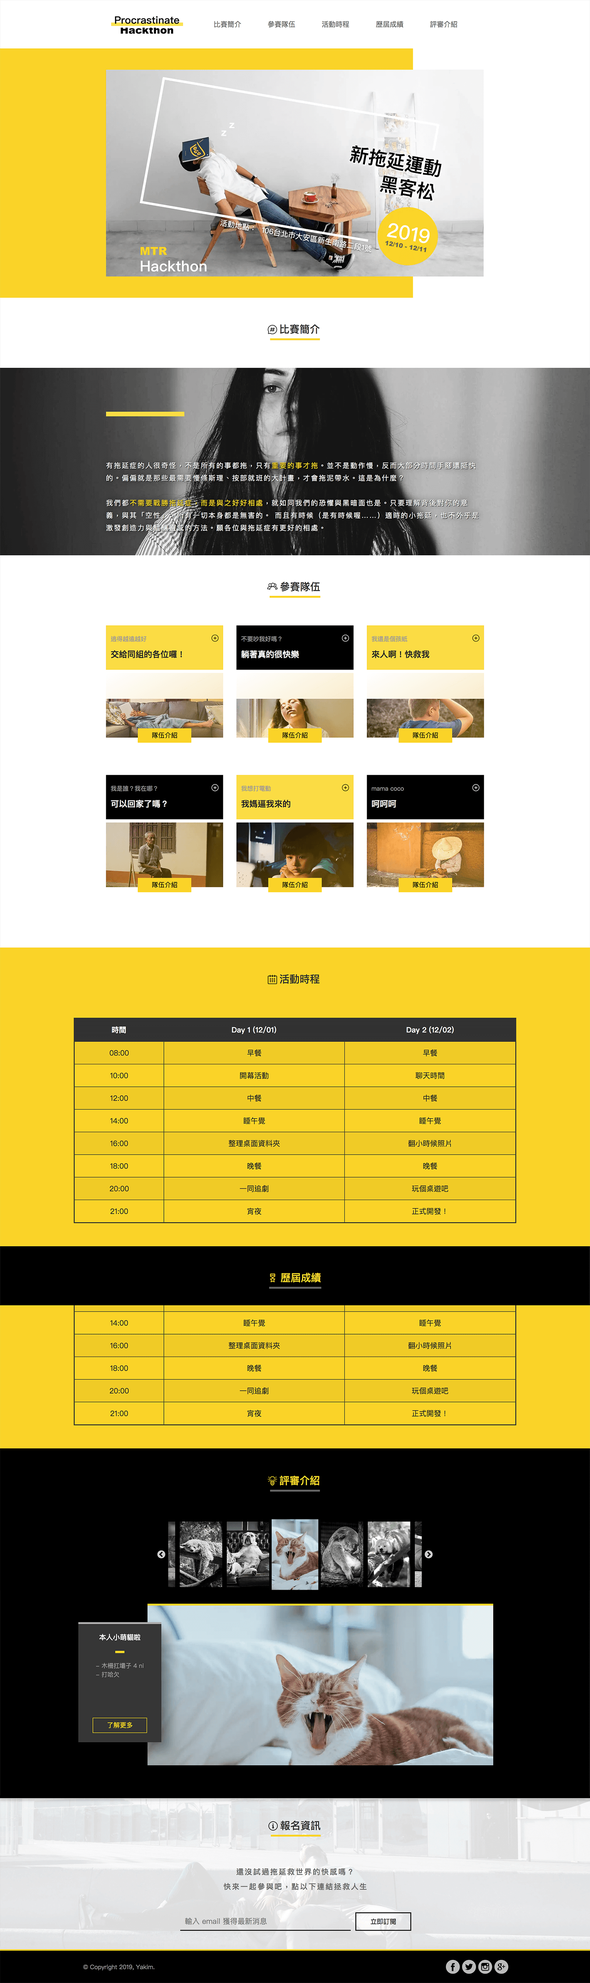
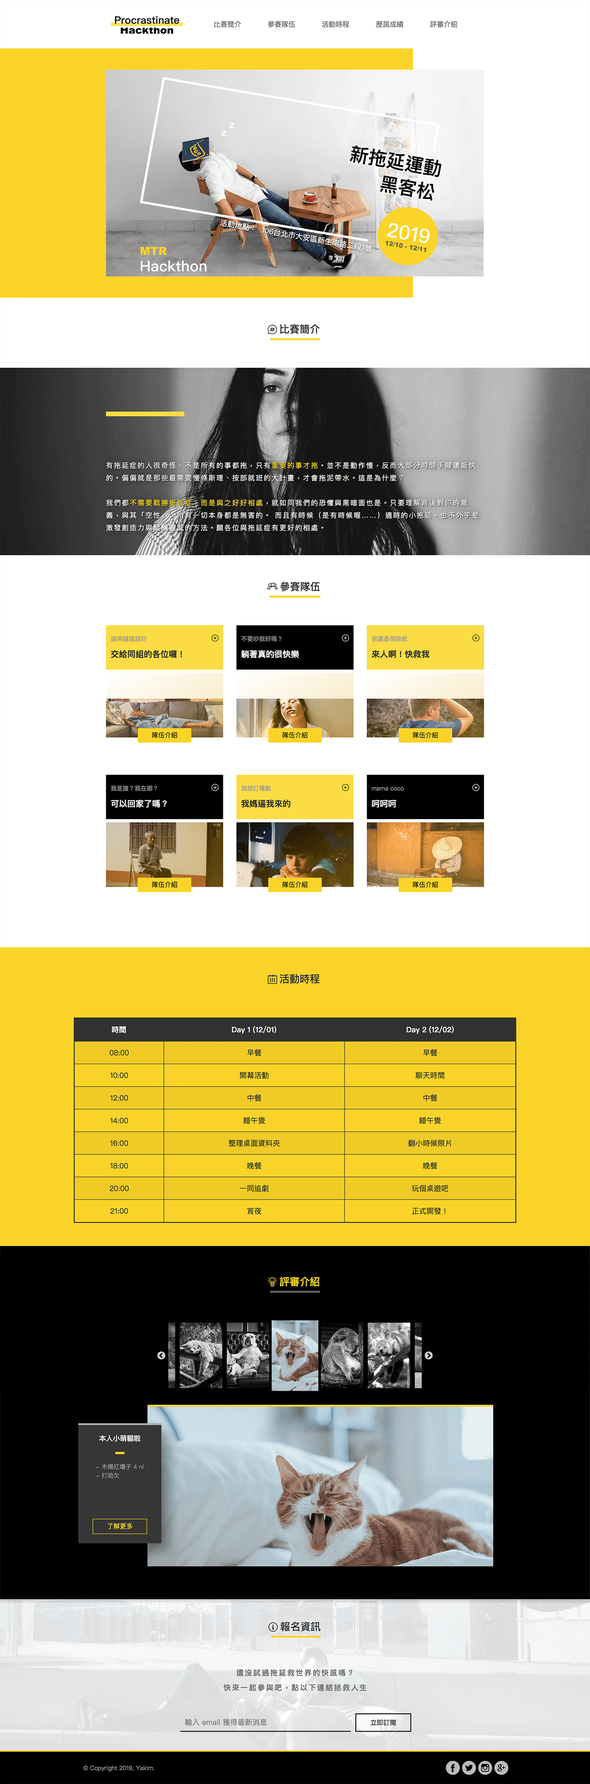
Update theme color & RWD

diff --git a/docs/static/js/main.f5ff1179.chunk.js b/docs/static/js/main.f5ff1179.chunk.js
@@ -1,0 +1,2 @@
+(window.webpackJsonpprofolio=window.webpackJsonpprofolio||[]).push([[0],{109:function(e,t,a){e.exports=a(173)},169:function(e,t,a){},173:function(e,t,a){"use strict";a.r(t);var l=a(0),n=a.n(l),r=a(2),c=a.n(r),o=a(107),m=a(22);Boolean("localhost"===window.location.hostname||"[::1]"===window.location.hostname||window.location.hostname.match(/^127(?:\.(?:25[0-5]|2[0-4][0-9]|[01]?[0-9][0-9]?)){3}$/));var i=a(45),s=a(46),u=a(50),E=a(47),h=a(51),p=function(){return n.a.createElement("div",{className:"contact-info"},n.a.createElement("p",null,n.a.createElement("i",{className:"fas fa-paper-plane fa-lg"}),n.a.createElement("a",{href:"mailto:toromilk80129@gmail.com",target:"_blank",rel:"noopener noreferrer"},"toromilk80129@gmail.com")),n.a.createElement("p",null,n.a.createElement("i",{className:"fas fa-phone-alt fa-lg"}),n.a.createElement("a",{href:"tel:+996-905-431-505"},"+886 905 431 505")),n.a.createElement("p",null,n.a.createElement("i",{className:"fas fa-desktop fa-lg"}),n.a.createElement("a",{href:"https://yakimhsu.com/writing.html",rel:"noopener noreferrer",target:"_blank"},"yakimhsu.com")),n.a.createElement("p",null,n.a.createElement("i",{className:"far fa-file-alt fa-lg"}),n.a.createElement("a",{href:""},"resume (pdf)")))},d=function(){return n.a.createElement("section",{className:"section no-border"},n.a.createElement("h1",{className:"name-title"},"YAKIM HSU"),n.a.createElement("section",{className:"introduce"},n.a.createElement("p",null,n.a.createElement("strong",null,"\u55e8\uff01 \u6211\u662f Yakim\uff0c\u4e00\u500b\u9084\u5728\u81ea\u6211\u7cbe\u9032\u7684 Front-End Developer \ud83c\udf85")),n.a.createElement("p",null,"Taipei ",n.a.createElement("br",null),"2019 \u5e74\u53c3\u52a0\u7a0b\u5f0f\u5c0e\u5e2b\u8a08\u756b\u7684\u9019\u534a\u5e74\uff0c\u5beb\u4e86",n.a.createElement("a",{href:"https://yakimhsu.com",rel:"noopener noreferrer",target:"_blank"}," 50 \u9918\u7bc7\u6280\u8853\u7b46\u8a18"),"\u3002\u55ae\u770b\u6578\u5b57\u610f\u7fa9\u4e0d\u5927\uff0c\u4f46\u80cc\u5f8c\u7684\u7406\u5ff5\u662f\u6211\u4e0d\u8ac7\u52aa\u529b\u3001\u8ac7\u884c\u52d5\u3002")),n.a.createElement(p,null))},f=a(93),g=a(176),b=function(e){var t=e.visible,a=e.showModal,l=e.hideModal;return n.a.createElement("div",{className:"section__content"},n.a.createElement("h3",{className:"title"},"SPA - BLOG",n.a.createElement("a",{href:"https://yakim-shu.github.io/SPA-Blog/",rel:"noopener noreferrer",target:"_blank"},"Demo"),n.a.createElement("a",{href:"https://github.com/yakim-shu/SPA-Blog",rel:"noopener noreferrer",target:"_blank"},"Github Repo")),n.a.createElement("div",{className:"project__content",type:"primary",onClick:function(){return a("visible1")}},n.a.createElement("p",{className:"summary"},"\u7528 React \u6253\u9020\u7684 SPA Blog\uff0c\u88e1\u9762\u7684\u6587\u7ae0\u90fd\u662f\u81ea\u5df1\u5b78\u7fd2 React \u7684\u7b46\u8a18\u3002"),n.a.createElement("ul",{className:"info"},n.a.createElement("h5",null,"\u529f\u80fd"),n.a.createElement("li",null,"\u6587\u7ae0\u5206\u985e\u3001\u6a19\u984c\u641c\u5c0b"),n.a.createElement("li",null,"\u652f\u6301 ",n.a.createElement("code",null,"markdown")," \u683c\u5f0f\u767c\u5e03\u6587\u7ae0\uff0c\u4e26\u652f\u63f4 code highlight"),n.a.createElement("li",null,"\u64cd\u4f5c\u6587\u7ae0\u6703\u6709\u56de\u994b\u8a0a\u606f\uff0c\u589e\u52a0\u4f7f\u7528\u8005\u9ad4\u9a57")),n.a.createElement("ul",{className:"info"},n.a.createElement("h5",null,"\u6280\u8853"),n.a.createElement("li",null,n.a.createElement("code",null,"react-router")," \u8655\u7406\u524d\u7aef\u8def\u7531"),n.a.createElement("li",null,"\u642d\u914d ",n.a.createElement("code",null,"Redux")," \u7ba1\u7406\u72c0\u614b\uff0c\u89e3\u6c7a props drilling \u7684\u554f\u984c"),n.a.createElement("li",null,"\u4f7f\u7528 ",n.a.createElement("code",null,"redux-promise")," \u8655\u7406\u975e\u540c\u6b65\u64cd\u4f5c"),n.a.createElement("li",null,"\u6587\u7ae0 API \u4ee5 ",n.a.createElement("code",null,"JSON Server")," \u90e8\u7f72\u5230 Digital Ocean\u3001\u4e26\u4f7f\u7528 ",n.a.createElement("code",null,"Nginx")," \u4f5c\u4ee3\u7406"))),n.a.createElement(g.a,{width:"860px",footer:null,title:"SPA - BLOG",visible:t,onCancel:l},n.a.createElement("ul",null,n.a.createElement("li",null,n.a.createElement("h4",null,"\u9996\u9801"),n.a.createElement("img",{src:"./image/pic_blog_home.png",alt:""})),n.a.createElement("li",null,n.a.createElement("h4",null,"\u6587\u7ae0\u5167\u9801"),n.a.createElement("img",{src:"./image/pic_blog_article.png",alt:""})),n.a.createElement("li",null,n.a.createElement("h4",null,"\u6587\u7ae0\u5217\u8868"),n.a.createElement("img",{src:"./image/pic_blog_list.png",alt:""})),n.a.createElement("li",null,n.a.createElement("h4",null,"\u65b0\u589e\u6587\u7ae0"),n.a.createElement("img",{src:"./image/pic_blog_addPost.png",alt:""})))))},k=function(e){var t=e.visible,a=e.showModal,l=e.hideModal;return n.a.createElement("div",{className:"section__content"},n.a.createElement("h3",{className:"title"},"\u540d\u8a00\u5927\u4e82\u9b25 - PHP \u7559\u8a00\u677f",n.a.createElement("a",{href:"http://mentor-program.co/group3/yakim/week13/index.php",rel:"noopener noreferrer",target:"_blank"},"Demo"),n.a.createElement("a",{href:"https://github.com/Lidemy/mentor-program-3rd-yakim-shu/tree/master/homeworks/week13/hw3",rel:"noopener noreferrer",target:"_blank"},"Github Repo")),n.a.createElement("div",{className:"project__content",type:"primary",onClick:function(){return a("visible2")}},n.a.createElement("p",{className:"summary"},"\u7b2c\u4e00\u500b PHP \u7df4\u7fd2\u4f5c\u54c1\uff0c\u85c9\u7531\u6b64\u4f5c\u696d\u66f4\u4e86\u89e3\u524d\u3001\u5f8c\u7aef\u904b\u4f5c\u3002"),n.a.createElement("ul",{className:"info"},n.a.createElement("h5",null,"\u529f\u80fd"),n.a.createElement("li",null,"\u652f\u6301\u591a\u5c64\u5b50\u7559\u8a00\u53ca\u6309\u8b9a\u529f\u80fd\u3001\u767b\u5165\u72c0\u614b\u6703\u6a19\u793a\u51fa\u539f po \u7684\u7559\u8a00"),n.a.createElement("li",null,"\u5b8c\u6210\u64cd\u4f5c\u6642\u6703\u986f\u793a\u56de\u994b\u8a0a\u606f\u3001\u7559\u8a00\u4ee5 Ajax \u65b9\u5f0f\u64cd\u4f5c"),n.a.createElement("li",null,"\u6703\u54e1\u7cfb\u7d71\uff1a\u8a3b\u518a\u3001\u767b\u5165\u5340\u584a"),n.a.createElement("li",null,"\u6703\u54e1\u6b0a\u9650\u7cfb\u7d71\uff1a\u4e00\u822c\u7ba1\u7406\u54e1\u53ef\u7ba1\u7406\u81ea\u5df1\u7684\u7559\u8a00\u3001\u7ba1\u7406\u54e1\u6709\u5f8c\u53f0\u64cd\u4f5c\u6240\u6709\u7559\u8a00")),n.a.createElement("ul",{className:"info"},n.a.createElement("h5",null,"\u6280\u8853"),n.a.createElement("li",null,"\u5f8c\u7aef\uff1a ",n.a.createElement("code",null,"PHP")," \u57fa\u672c\u7684 CRUD \u64cd\u4f5c"),n.a.createElement("li",null,"\u8cc7\u8a0a\u5b89\u5168\uff1a \u9632 ",n.a.createElement("code",null,"XSS"),"\u3001",n.a.createElement("code",null,"SQL Injection")," "),n.a.createElement("li",null,"\u90e8\u7f72\uff1a Server \u70ba ",n.a.createElement("code",null,"Apache"),"\u3001\u90e8\u7f72\u5230 Ditgital Ocean"))),n.a.createElement(g.a,{width:"860px",footer:null,title:"\u540d\u8a00\u5927\u4e82\u9b25 - PHP \u7559\u8a00\u677f",visible:t,onCancel:l},n.a.createElement("ul",null,n.a.createElement("li",null,n.a.createElement("h4",null,"\u4e00\u822c\u6703\u54e1\u767b\u5165"),n.a.createElement("img",{src:"./image/pic_commet_home.png",alt:""})),n.a.createElement("li",null,n.a.createElement("h4",null,"\u7ba1\u7406\u54e1\u767b\u5165"),n.a.createElement("img",{src:"./image/pic_commet_admin.png",alt:""})))))},_=function(e){var t=e.visible,a=e.showModal,l=e.hideModal;return n.a.createElement("div",{className:"section__content"},n.a.createElement("h3",{className:"title"},"Lazy - Hackathon",n.a.createElement("a",{href:"https://yakim-shu.github.io/lazy-hackathon-yakim/dist/",rel:"noopener noreferrer",target:"_blank"},"Demo"),n.a.createElement("a",{href:"https://github.com/yakim-shu/lazy-hackathon-yakim",rel:"noopener noreferrer",target:"_blank"},"Github Repo"),n.a.createElement("a",{href:"https://github.com/Lidemy/lazy-hackathon/issues/7",rel:"noopener noreferrer",target:"_blank"},"\u512a\u5316\u904e\u7a0b\u7d00\u9304")),n.a.createElement("div",{className:"project__content",type:"primary",onClick:function(){return a("visible3")}},n.a.createElement("p",{className:"summary"},"\u6b64\u70ba\u8ddf\u5c0e\u5e2b Huli \u5408\u4f5c\u7684\u5c08\u6848\uff0c\u6545\u610f\u505a\u4e00\u500b\u901f\u5ea6\u5f88\u6162\u7684\u7db2\u7ad9\uff0c\u7576\u4f5c\u8ab2\u7a0b\u7684\u4f5c\u696d\u4e4b\u4e00\uff0c\u76ee\u7684\u662f\u8b93\u5b78\u751f\u85c9\u7531\u512a\u5316\u6b64\u7db2\u9801\u4f86\u5b78\u7fd2\u7db2\u9801\u6700\u4f73\u5316\u3002\u540c\u6642\u4e5f\u7d00\u9304\u4e86\u8a73\u7d30\u7684",n.a.createElement("a",{href:"https://github.com/Lidemy/lazy-hackathon/issues/7",rel:"noopener noreferrer",target:"_blank"}," \u512a\u5316\u904e\u7a0b "),"\u3002"),n.a.createElement("ul",{className:"info"},n.a.createElement("h5",null,"\u512a\u5316\u6210\u679c"),n.a.createElement("li",null,"\u539f\u59cb\u6578\u64da\uff1a\u884c\u52d5\u7248\uff1a 9 \u5206\u3001\u96fb\u8166\u7248\uff1a 52 \u5206"),n.a.createElement("li",null,"\u512a\u5316\u5f8c\u7d50\u679c\uff1a\u884c\u52d5\u7248\uff1a 97 \u5206\u3001\u96fb\u8166\u7248\uff1a 100 \u5206")),n.a.createElement("ul",{className:"info"},n.a.createElement("h5",null,"\u512a\u5316\u6280\u8853 :  "),n.a.createElement("li",null,"\u57fa\u672c\u58d3\u7e2e : ",n.a.createElement("code",null,"HTML"),"\u3001",n.a.createElement("code",null,"JavaScript"),"\u3001",n.a.createElement("code",null,"CSS")),n.a.createElement("li",null,"CSS \u512a\u5316 : ",n.a.createElement("code",null,"PostCSS"),"\u3001",n.a.createElement("code",null,"gulp-uncss")),n.a.createElement("li",null,"\u5716\u7247\u512a\u5316 : ",n.a.createElement("code",null,"tinypng-compress"),"\u3001",n.a.createElement("code",null,"lazyload"),"\u3001",n.a.createElement("code",null,"webp"),"\u3001",n.a.createElement("code",null,"CSS Sprite")))),n.a.createElement(g.a,{width:"860px",footer:null,title:"Lazy - Hackathon",visible:t,onCancel:l},n.a.createElement("img",{src:"./image/pic_lazy_01.png",alt:""})))},v=function(e){function t(){var e,a;Object(i.a)(this,t);for(var l=arguments.length,n=new Array(l),r=0;r<l;r++)n[r]=arguments[r];return(a=Object(u.a)(this,(e=Object(E.a)(t)).call.apply(e,[this].concat(n)))).state={visible1:!1,visible2:!1,visible3:!1},a.showModal=function(e){a.setState(Object(f.a)({},e,!0))},a.hideModal=function(){a.setState({visible1:!1,visible2:!1,visible3:!1})},a}return Object(h.a)(t,e),Object(s.a)(t,[{key:"render",value:function(){var e=this.state,t=e.visible1,a=e.visible2,l=e.visible3;return n.a.createElement("section",{id:"project",className:"section project"},n.a.createElement("h4",{className:"section__title"},"PROJECTS"),n.a.createElement(b,{visible:t,showModal:this.showModal,hideModal:this.hideModal}),n.a.createElement(k,{visible:a,showModal:this.showModal,hideModal:this.hideModal}),n.a.createElement(_,{visible:l,showModal:this.showModal,hideModal:this.hideModal}))}}]),t}(l.Component),y=function(){return n.a.createElement("section",{id:"work",className:"section work"},n.a.createElement("h4",{className:"section__title"},"WORK EXPERIENCE"),n.a.createElement("div",{className:"section__content work__item"},n.a.createElement("a",{className:"title",href:"https://github.com/Lidemy/mentor-program-3rd",rel:"noopener noreferrer"},"LIDEMY \u7b2c\u4e09\u671f\u7684\u7a0b\u5f0f\u5c0e\u5e2b\u8a08\u756b"),n.a.createElement("p",{className:"summary"},"\u7562\u696d\u751f ",n.a.createElement("br",null),"Mar, 2019 \u2013 Oct, 2019",n.a.createElement("br",null),"\u53c3\u52a0\u7531 Lidemy \u92f0\u5b78\u9662\u5275\u8fa6\u4eba Huli \u6240\u958b\u8a2d\u7684 ",n.a.createElement("a",{href:"https://github.com/Lidemy/mentor-program-3rd"},"\u3010 \u7a0b\u5f0f\u5c0e\u5e2b\u8a08\u756b\u7b2c\u4e09\u671f \u3011"),"\uff0c\u904e\u8457\u8207",n.a.createElement("a",{href:"https://github.com/Lidemy/homeworks-3rd/issues?utf8=\u2713&q=yakim",rel:"noopener noreferrer",target:"_blank"}," 24 \u9031\u4f5c\u696d ")," \u70ba\u4f0d\u7684\u65e5\u5b50\uff0c\u671f\u9593\u52a0\u5f37\u4e86\u8a31\u591a\u4ee5\u5f80\u6a21\u7cca\u4e0d\u6e05\u7684\u89c0\u5ff5\uff0c\u4e26\u5728 Blog \u6301\u7e8c\u767c\u8868\u6280\u8853\u7b46\u8a18\u3002"),n.a.createElement("ul",{className:"info"},n.a.createElement("li",null,"\u524d\u7aef\u6846\u67b6 \uff1a React ( with Redux )"),n.a.createElement("li",null,"\u524d\u7aef\u6280\u8853 \uff1a \u719f\u6089\u539f\u751f JavaScript \u8a9e\u6cd5\u7279\u6027\u3001SCSS\u3001PostCSS"),n.a.createElement("li",null,"\u5f8c\u7aef\u6280\u8853 \uff1a PHP \u57fa\u672c\u7684 CRUD \u64cd\u4f5c\u3001\u958b\u767c RESTFul API"),n.a.createElement("li",null,"\u8cc7\u5b89\u9632\u7bc4 \uff1a\u4e86\u89e3\u5982\u4f55\u9810\u9632 XSS\u3001SQL Injection\u3001CORS \u7684\u57fa\u672c\u5e38\u8b58"),n.a.createElement("li",null,"\u73fe\u4ee3\u7db2\u9801\u5de5\u7a0b\u53ca\u512a\u5316 \uff1a Webpack \u6253\u5305\u5de5\u5177\u3001 gulp \u4efb\u52d9\u7ba1\u7406\u3001\u7db2\u9801\u8f09\u5165\u512a\u5316"))),n.a.createElement("div",{className:"section__content work__item"},n.a.createElement("a",{className:"title",href:"https://www.ettoday.net/",target:"_blank",rel:"noopener noreferrer"},"ETTODAY \u6771\u68ee\u65b0\u805e\u96f2"),n.a.createElement("p",{className:"summary"},"\u7db2\u9801\u8a2d\u8a08\u5e2b",n.a.createElement("br",null),"Jul, 2014 \u2013 Sep, 2017",n.a.createElement("br",null),"\u8ca0\u8cac\u516c\u53f8\u5b50\u983b\u9053\u7684\u958b\u767c\u3001\u7dad\u8b77\uff0c\u4ee5\u53ca\u77ed\u671f\u7684\u6d3b\u52d5\u7db2\u7ad9\uff0c\u8207 PM \u8ddf\u5f8c\u7aef\u5718\u968a\u5408\u4f5c\uff0c\u5354\u52a9\u8a0e\u8ad6\u65b0\u805e\u90e8\u7684\u9700\u6c42\uff0c\u7c21\u5316\u958b\u767c\u6d41\u7a0b\uff0c\u540c\u6642\u63a5\u6536\u5ee3\u544a\u9700\u6c42\u55ae\u3001\u88fd\u4f5c Banner\u3001Logo\u3002"),n.a.createElement("ul",{className:"info"},n.a.createElement("li",null,"\u3010 \u5b50\u983b\u9053 \u3011\u64ad\u5427\u3001ET \u6642\u5c1a\u96f2\u3001\u9375\u76e4\u5927\u6ab8\u6aac"),n.a.createElement("li",null,"\u3010 \u6d3b\u52d5\u516c\u7248\u7cfb\u7d71 \u3011\u4e3b\u8981\u662f\u4f9b\u7db2\u53cb\u6295\u7a3f ( UGC )\u3001\u9700\u8981\u56e0\u61c9\u4e0d\u540c\u4e3b\u984c\u6240\u8a2d\u7f6e\u7684\u516c\u677f\u7cfb\u7d71\uff0c\u65b0\u805e\u90e8\u4eba\u54e1\u53ea\u8981 10 \u5206\u9418\u5167\u5c31\u53ef\u4ee5\u63a8\u51fa\u65b0\u6d3b\u52d5\uff0c\u5927\u5927\u964d\u4f4e\u958b\u767c\u63a8\u51fa\u5fb5\u7a3f\u6d3b\u52d5\u7684\u6210\u672c\u3002"))))},N=function(){return n.a.createElement("section",{id:"education",className:"section education"},n.a.createElement("h4",{className:"section__title"},"EDUCATION"),n.a.createElement("div",{className:"section__content"},n.a.createElement("h3",{className:"title"},"\u570b\u7acb\u864e\u5c3e\u79d1\u6280\u5927\u5b78"),n.a.createElement("p",{className:"summary"},"\u5b78\u58eb - \u591a\u5a92\u9ad4\u8a2d\u8a08\u7cfb | Sep, 2010 \u2013 Jun, 2014")))},w=function(){return n.a.createElement("p",{className:"copyright"},"\xa9 Copyright 2019, Yakim.")},S=a(177),C=S.a.Link,M=function(){return n.a.createElement(S.a,{offsetTop:50,targetOffset:60},n.a.createElement(C,{href:"#project",title:"Project"}),n.a.createElement(C,{href:"#work",title:"Work"}),n.a.createElement(C,{href:"#education",title:"Education"}),n.a.createElement(C,{href:"#contact",title:"Contact"}))},O=function(){return n.a.createElement("section",{id:"contact",className:"section contact-bttom no-border"},n.a.createElement("h4",{className:"section__title"},"CONTACT ME"),n.a.createElement("p",null,"\u8b1d\u8b1d\u4f60\u7684\u95b1\u8b80\u3002",n.a.createElement("br",null),"\u76ee\u524d\u6b63\u5728\u627e\u5de5\u4f5c\u7576\u4e2d\uff0c\u5982\u679c\u6709\u8208\u8da3\u7684\u8a71\u8acb\u806f\u7d61\u6211\u3001\u6216\u55ae\u7d14\u8aaa\u500b\u55e8\u4e5f\u53ef\u4ee5\u5594 \ud83d\udc4b ",n.a.createElement("br",null)),n.a.createElement(p,null))},P=a(175),j=(a(168),a(169),function(e){function t(){var e,a;Object(i.a)(this,t);for(var l=arguments.length,n=new Array(l),r=0;r<l;r++)n[r]=arguments[r];return(a=Object(u.a)(this,(e=Object(E.a)(t)).call.apply(e,[this].concat(n)))).state={isDarkTheme:!1},a.setTheme=function(){a.setState({isDarkTheme:!a.state.isDarkTheme})},a}return Object(h.a)(t,e),Object(s.a)(t,[{key:"componentDidUpdate",value:function(){console.log(this.state)}},{key:"render",value:function(){var e=this.state.isDarkTheme;return document.body.style.backgroundColor=e?"#333":"#fff",n.a.createElement("div",{className:"wrapper ".concat(e?"theme--dark":"")},n.a.createElement("main",{className:"container"},n.a.createElement(P.a,{checkedChildren:"\u8b77\u773c",unCheckedChildren:"\u4e00\u822c",onChange:this.setTheme,defaultChecked:!0}),n.a.createElement(d,null),n.a.createElement(M,null),n.a.createElement(v,null),n.a.createElement(y,null),n.a.createElement(N,null),n.a.createElement(O,null),n.a.createElement(w,null)))}}]),t}(l.Component));c.a.render(n.a.createElement(o.a,{basename:"/portfolio"},n.a.createElement(m.a,{path:"/",exact:!0,component:j})),document.getElementById("root")),"serviceWorker"in navigator&&navigator.serviceWorker.ready.then((function(e){e.unregister()}))}},[[109,1,2]]]);
+//# sourceMappingURL=main.f5ff1179.chunk.js.map

diff --git a/docs/static/css/main.ca6c11c7.chunk.css b/docs/static/css/main.ca6c11c7.chunk.css
@@ -1,0 +1,2 @@
+@charset "UTF-8";*{padding:0;box-sizing:border-box;letter-spacing:.02rem;font-family:微軟正黑體,Arial,Helvetica,sans-serif}*,ul{margin:0}ul{list-style:none}a{text-decoration:none;color:inherit}p{line-height:1.6rem;margin-bottom:.5rem;color:#999}p strong{color:#333}p a{border-bottom:1px dotted #999;color:#000}p a:hover{color:#9370db}code{font-size:13px;color:#a284e0}.project__content:hover{-webkit-transition:all .3s;transition:all .3s}.introduce:before,.name-title,.project .title:before,.section__content .title,.section__title{font-family:Palanquin Dark,sans-serif;letter-spacing:.15rem;font-weight:700}@-webkit-keyframes fadeIn{0%{opacity:0}to{opacity:1}}@keyframes fadeIn{0%{opacity:0}to{opacity:1}}@-webkit-keyframes fadeInOout{0%,to{opacity:0}30%,80%{opacity:1;bottom:150px}}@keyframes fadeInOout{0%,to{opacity:0}30%,80%{opacity:1;bottom:150px}}.wrapper{padding:0 20px}.ant-switch{position:fixed;right:20px;top:20px;background-color:#999;z-index:30}.ant-switch-checked{background-color:#333}.container{max-width:700px;margin:0 auto;padding:30px 0;min-height:calc(100vh - 290px)}.section{padding:20px 0 2rem;margin-bottom:2rem;border-bottom:1px solid #9370db}.section.no-border{border:none}.section__title{font-size:18px;letter-spacing:.05rem;color:#ccc;margin-bottom:2rem}.section__content{margin-bottom:2.5rem}.section__content .title{display:block;margin-bottom:1rem;color:#000;font-size:20px;letter-spacing:0}.section__content .title a{padding:2px 10px;background:#9370db;color:#fff;display:inline-block;font-weight:400;margin-left:10px;font-size:14px}.section__content .title a:hover{background:#000}.section__content .summary{font-size:15px;margin-bottom:2rem}.section__content .info+.info{margin-top:1rem}.section__content .info h5{margin-bottom:.8rem;padding:2px 10px;background:#999;font-size:13px;color:#fff;display:inline-block;font-weight:400}.section__content .info li{margin-bottom:.3rem;font-size:14px;color:#666}@media screen and (max-width:768px){.section{margin-bottom:1rem;padding-bottom:1rem}}.about{line-height:1.8rem;letter-spacing:.05rem;-webkit-animation:fadeIn 1s;animation:fadeIn 1s;color:#666}.about a{border-bottom:2px solid #9370db}.about span{background:#666;padding:0 5px;color:#fff;font-size:14px}.about p{margin-bottom:1em}.about ul{list-style:disc outside none;list-style:initial;padding-left:2rem;margin-bottom:2rem}.about blockquote{border-top:1px solid #eee;border-bottom:1px solid #eee;padding:1.5rem}.contact-info{display:flex;align-items:center;padding:1rem 0;font-size:13px}.contact-info p{margin-right:20px}.contact-info p i{color:#000;margin-right:10px}@media screen and (max-width:768px){.contact-info{flex-wrap:wrap}.contact-info p{flex-basis:50%;margin-right:0}}@media screen and (max-width:480px){.contact-info{flex-wrap:wrap}.contact-info p{flex-basis:100%;text-align:center}}.name-title{color:#9370db;font-size:28px;margin-bottom:2rem}.introduce{border:2px solid #9370db;padding:20px;font-size:15px;position:relative}.introduce p{line-height:1.8rem}.introduce:before{content:"HI";display:flex;width:60px;height:60px;border-radius:60px;position:absolute;top:20px;left:-100px;background:#9370db;font-size:24px;color:#fff;align-items:center;justify-content:center}@media screen and (max-width:960px){.introduce:before{top:-30px;left:auto;right:-30px}}@media screen and (max-width:480px){.introduce:before{display:none}}.project .title:before{content:"#";display:inline-block;position:relative;top:-2px;left:-5px;color:#9370db;font-size:22px}.project__content{cursor:pointer;padding-left:10px}.project__content:hover{-webkit-transform:translateX(-10px);transform:translateX(-10px);border-left:1px dashed #9370db}.ant-modal{max-width:calc(100% - 20px)}.ant-modal a{margin-right:10px}.ant-modal ul{display:flex;flex-wrap:wrap;justify-content:space-between}.ant-modal ul li{width:48%;margin-bottom:1rem}.ant-modal img{display:block;max-width:100%;height:auto}@media screen and (max-width:480px){.project__content:hover{-webkit-transform:none;transform:none;border-left:none}}.work .info{position:relative;left:20px;list-style:disc outside none;list-style:initial}.work .info li{line-height:1.4rem}.copyright{text-align:center;font-size:13px;color:#9370db}.ant-anchor-wrapper{opacity:0;height:0;-webkit-transition:all .5s;transition:all .5s}.ant-affix .ant-anchor-wrapper{opacity:1;height:auto}.ant-anchor-link-title{font-size:16px;color:#666}.ant-anchor-link-title.ant-anchor-link-title-active{color:#9370db}.ant-anchor-ink .ant-anchor-ink-ball{border-color:#9370db}.ant-affix{left:calc(50% + 380px)}@media screen and (max-width:960px){.ant-anchor-wrapper{display:none}}.contact-bttom .contact-info{display:block}.theme--dark p strong{color:#fff}.theme--dark p a{color:#ccc}.theme--dark .contact-info p i,.theme--dark .section__content .title{color:#fff}.theme--dark .section__content .info li{color:#999}.theme--dark .ant-anchor-wrapper{background:none;-webkit-transition:none;transition:none}.theme--dark .ant-anchor-wrapper .ant-anchor-ink-ball{background:#333}.theme--dark .ant-anchor-wrapper .ant-anchor-link-title{color:#aaa}.theme--dark .ant-anchor-wrapper .ant-anchor-link-title.ant-anchor-link-title-active{color:#fff}
+/*# sourceMappingURL=main.ca6c11c7.chunk.css.map */

diff --git a/docs/index.html b/docs/index.html
@@ -1,1 +1,1 @@
-<!doctype html><html lang="en"><head><meta charset="utf-8"/><link rel="shortcut icon" href="/portfolio/favicon.ico"/><meta name="viewport" content="width=device-width,initial-scale=1"/><meta name="description" content="Web site created using create-react-app"/><link rel="apple-touch-icon" href="logo192.png"/><link rel="stylesheet" href="https://cdnjs.cloudflare.com/ajax/libs/normalize/8.0.1/normalize.min.css"><link href="https://fonts.googleapis.com/css?family=Palanquin+Dark&display=swap" rel="stylesheet"><script src="https://kit.fontawesome.com/d076c2ab63.js" crossorigin="anonymous"></script><title>Yakim | Profolio</title><link href="/portfolio/static/css/2.65d0fb34.chunk.css" rel="stylesheet"><link href="/portfolio/static/css/main.a8a2be0f.chunk.css" rel="stylesheet"></head><body><div id="root"></div><script>!function(i){function e(e){for(var r,t,n=e[0],o=e[1],u=e[2],l=0,f=[];l<n.length;l++)t=n[l],Object.prototype.hasOwnProperty.call(a,t)&&a[t]&&f.push(a[t][0]),a[t]=0;for(r in o)Object.prototype.hasOwnProperty.call(o,r)&&(i[r]=o[r]);for(s&&s(e);f.length;)f.shift()();return c.push.apply(c,u||[]),p()}function p(){for(var e,r=0;r<c.length;r++){for(var t=c[r],n=!0,o=1;o<t.length;o++){var u=t[o];0!==a[u]&&(n=!1)}n&&(c.splice(r--,1),e=l(l.s=t[0]))}return e}var t={},a={1:0},c=[];function l(e){if(t[e])return t[e].exports;var r=t[e]={i:e,l:!1,exports:{}};return i[e].call(r.exports,r,r.exports,l),r.l=!0,r.exports}l.m=i,l.c=t,l.d=function(e,r,t){l.o(e,r)||Object.defineProperty(e,r,{enumerable:!0,get:t})},l.r=function(e){"undefined"!=typeof Symbol&&Symbol.toStringTag&&Object.defineProperty(e,Symbol.toStringTag,{value:"Module"}),Object.defineProperty(e,"__esModule",{value:!0})},l.t=function(r,e){if(1&e&&(r=l(r)),8&e)return r;if(4&e&&"object"==typeof r&&r&&r.__esModule)return r;var t=Object.create(null);if(l.r(t),Object.defineProperty(t,"default",{enumerable:!0,value:r}),2&e&&"string"!=typeof r)for(var n in r)l.d(t,n,function(e){return r[e]}.bind(null,n));return t},l.n=function(e){var r=e&&e.__esModule?function(){return e.default}:function(){return e};return l.d(r,"a",r),r},l.o=function(e,r){return Object.prototype.hasOwnProperty.call(e,r)},l.p="/portfolio/";var r=window.webpackJsonpprofolio=window.webpackJsonpprofolio||[],n=r.push.bind(r);r.push=e,r=r.slice();for(var o=0;o<r.length;o++)e(r[o]);var s=n;p()}([])</script><script src="/portfolio/static/js/2.d5866f0f.chunk.js"></script><script src="/portfolio/static/js/main.cc665a1e.chunk.js"></script></body></html>
+<!doctype html><html lang="en"><head><meta charset="utf-8"/><link rel="shortcut icon" href="/portfolio/favicon.ico"/><meta name="viewport" content="width=device-width,initial-scale=1"/><meta name="description" content="Web site created using create-react-app"/><link rel="stylesheet" href="https://use.fontawesome.com/releases/v5.11.2/css/all.css" integrity="sha384-KA6wR/X5RY4zFAHpv/CnoG2UW1uogYfdnP67Uv7eULvTveboZJg0qUpmJZb5VqzN" crossorigin="anonymous"><link href="https://fonts.googleapis.com/css?family=Palanquin+Dark&display=swap" rel="stylesheet"><title>Yakim | Profolio</title><link href="/portfolio/static/css/2.65d0fb34.chunk.css" rel="stylesheet"><link href="/portfolio/static/css/main.ca6c11c7.chunk.css" rel="stylesheet"></head><body><div id="root"></div><script>!function(i){function e(e){for(var r,t,n=e[0],o=e[1],u=e[2],l=0,f=[];l<n.length;l++)t=n[l],Object.prototype.hasOwnProperty.call(a,t)&&a[t]&&f.push(a[t][0]),a[t]=0;for(r in o)Object.prototype.hasOwnProperty.call(o,r)&&(i[r]=o[r]);for(s&&s(e);f.length;)f.shift()();return c.push.apply(c,u||[]),p()}function p(){for(var e,r=0;r<c.length;r++){for(var t=c[r],n=!0,o=1;o<t.length;o++){var u=t[o];0!==a[u]&&(n=!1)}n&&(c.splice(r--,1),e=l(l.s=t[0]))}return e}var t={},a={1:0},c=[];function l(e){if(t[e])return t[e].exports;var r=t[e]={i:e,l:!1,exports:{}};return i[e].call(r.exports,r,r.exports,l),r.l=!0,r.exports}l.m=i,l.c=t,l.d=function(e,r,t){l.o(e,r)||Object.defineProperty(e,r,{enumerable:!0,get:t})},l.r=function(e){"undefined"!=typeof Symbol&&Symbol.toStringTag&&Object.defineProperty(e,Symbol.toStringTag,{value:"Module"}),Object.defineProperty(e,"__esModule",{value:!0})},l.t=function(r,e){if(1&e&&(r=l(r)),8&e)return r;if(4&e&&"object"==typeof r&&r&&r.__esModule)return r;var t=Object.create(null);if(l.r(t),Object.defineProperty(t,"default",{enumerable:!0,value:r}),2&e&&"string"!=typeof r)for(var n in r)l.d(t,n,function(e){return r[e]}.bind(null,n));return t},l.n=function(e){var r=e&&e.__esModule?function(){return e.default}:function(){return e};return l.d(r,"a",r),r},l.o=function(e,r){return Object.prototype.hasOwnProperty.call(e,r)},l.p="/portfolio/";var r=window.webpackJsonpprofolio=window.webpackJsonpprofolio||[],n=r.push.bind(r);r.push=e,r=r.slice();for(var o=0;o<r.length;o++)e(r[o]);var s=n;p()}([])</script><script src="/portfolio/static/js/2.d5866f0f.chunk.js"></script><script src="/portfolio/static/js/main.f5ff1179.chunk.js"></script></body></html>

diff --git a/src/scss/layout.scss b/src/scss/layout.scss
@@ -2,7 +2,9 @@ body {
 }
 
 .wrapper {
+  padding: 0 20px;
 }
+
 
 .ant-switch {
   position: fixed;
@@ -19,96 +21,12 @@ body {
 .container {
   max-width: $width-s;
   margin: 0 auto;
-  padding: 30px;
+  padding: 30px 0;
   min-height: calc(100vh - 290px);
 }
 
-.section {
-  padding: 20px 0 2rem 0;
-  margin-bottom: 2rem;
-  border-bottom: 1px solid $main-color;
-
-  &.no-border {
-    border: none;
-  }
-  
-  &__title {
-    @extend %weight-font-style;
-    font-size: 18px;
-    letter-spacing: 0.05rem;
-    color: #ccc;
-    margin-bottom: 2rem;
-  }
-
-  &__content {
-    margin-bottom: 2.5rem;
-
-    .title {
-      @extend %weight-font-style;
-      display: block;
-      margin-bottom: 1rem;
-      color: #000;
-      font-size: 20px;
-      letter-spacing: 0rem;
-
-      a {
-        padding: 2px 10px;
-        background: $main-color;
-        color: #fff;
-        display: inline-block;
-        font-weight: normal;
-        margin-left: 10px;
-        font-size: 14px;
-
-        &:hover {
-          background: #000;
-        }
-      }
-    }
-
-    .summary {
-      font-size: 15px;
-      margin-bottom: 2rem;
-    }
-
-    .info {
-      & + .info {
-        margin-top: 1rem;
-      }
-
-      h5 {
-        margin-bottom: 0.8rem;
-        padding: 2px 10px;
-        background: #999;
-        font-size: 13px;
-        color: #fff;
-        display: inline-block;
-        font-weight: normal;
-      }
-
-      li {
-        margin-bottom: 0.3rem;
-        font-size: 14px;
-        color: #666;
-      }
-    }
-  }
-}
-
-
-
 /* ----- RWD ---- */
-@include mq('tablet-s') {
-  .header {
-    text-align: center;
-  }
-
-  .wrapper {
-    padding-top: 80px;
-  }
-
-  .container {
-    padding: 20px 15px;
-  }
+@include mq('desktop') {
+  
 }
 

diff --git a/src/scss/section.scss b/src/scss/section.scss
@@ -1,0 +1,79 @@
+.section {
+  padding: 20px 0 2rem 0;
+  margin-bottom: 2rem;
+  border-bottom: 1px solid $main-color;
+
+  &.no-border {
+    border: none;
+  }
+  
+  &__title {
+    @extend %weight-font-style;
+    font-size: 18px;
+    letter-spacing: 0.05rem;
+    color: #ccc;
+    margin-bottom: 2rem;
+  }
+
+  &__content {
+    margin-bottom: 2.5rem;
+
+    .title {
+      @extend %weight-font-style;
+      display: block;
+      margin-bottom: 1rem;
+      color: #000;
+      font-size: 20px;
+      letter-spacing: 0rem;
+
+      a {
+        padding: 2px 10px;
+        background: $main-color;
+        color: #fff;
+        display: inline-block;
+        font-weight: normal;
+        margin-left: 10px;
+        font-size: 14px;
+
+        &:hover {
+          background: #000;
+        }
+      }
+    }
+
+    .summary {
+      font-size: 15px;
+      margin-bottom: 2rem;
+    }
+
+    .info {
+      & + .info {
+        margin-top: 1rem;
+      }
+
+      h5 {
+        margin-bottom: 0.8rem;
+        padding: 2px 10px;
+        background: #999;
+        font-size: 13px;
+        color: #fff;
+        display: inline-block;
+        font-weight: normal;
+      }
+
+      li {
+        margin-bottom: 0.3rem;
+        font-size: 14px;
+        color: #666;
+      }
+    }
+  }
+}
+
+
+@include mq('tablet') {
+  .section {
+    margin-bottom: 1rem;
+    padding-bottom: 1rem;
+  }
+}

diff --git a/docs/precache-manifest.df3a62bc63e43b641418965fc296503a.js b/docs/precache-manifest.df3a62bc63e43b641418965fc296503a.js
@@ -1,6 +1,6 @@
 self.__precacheManifest = (self.__precacheManifest || []).concat([
   {
-    "revision": "dc3006a5104c7c38fbb47b8088bb97d2",
+    "revision": "656094c003b6d8d3f6a259371848b731",
     "url": "/portfolio/index.html"
   },
   {
@@ -8,16 +8,16 @@ self.__precacheManifest = (self.__precacheManifest || []).concat([
     "url": "/portfolio/static/css/2.65d0fb34.chunk.css"
   },
   {
-    "revision": "2b939f982651d7cee689",
-    "url": "/portfolio/static/css/main.a8a2be0f.chunk.css"
+    "revision": "1748b958adba87f3f36f",
+    "url": "/portfolio/static/css/main.ca6c11c7.chunk.css"
   },
   {
     "revision": "736688aace542bc43934",
     "url": "/portfolio/static/js/2.d5866f0f.chunk.js"
   },
   {
-    "revision": "2b939f982651d7cee689",
-    "url": "/portfolio/static/js/main.cc665a1e.chunk.js"
+    "revision": "1748b958adba87f3f36f",
+    "url": "/portfolio/static/js/main.f5ff1179.chunk.js"
   },
   {
     "revision": "3a5bc68b49cd72246a16",

diff --git a/src/components/contactList/ContactList.scss b/src/components/contactList/ContactList.scss
@@ -1,7 +1,7 @@
 .contact-info {
   display: flex;
   align-items: center;
-  padding: 1.5rem 0;
+  padding: 1rem 0;
   font-size: 13px;
 
   p {
@@ -10,6 +10,29 @@
     i {
       color: #000;
       margin-right: 10px;
+    }
+  }
+}
+
+/* ----- RWD ---- */
+@include mq('tablet') {
+  .contact-info {
+    flex-wrap: wrap;
+
+    p {
+      flex-basis: 50%;
+      margin-right: 0;
+    }
+  }
+}
+
+@include mq('phone-l') {
+  .contact-info {
+    flex-wrap: wrap;
+
+    p {
+      flex-basis: 100%;
+      text-align: center;
     }
   }
 }

diff --git a/src/components/project/Project.scss b/src/components/project/Project.scss
@@ -3,7 +3,7 @@
     &::before {
       @extend %weight-font-style;
       @include pseudo(inline-block,'#');
-      @include position(relative, $top: -2px, $left: -10px);
+      @include position(relative, $top: -2px, $left: -5px);
       color: $main-color;
       font-size: 22px;
     }
@@ -40,5 +40,14 @@
     display: block;
     max-width: 100%;
     height: auto;
+  }
+}
+
+@include mq('phone-l') {
+  .project__content {
+    &:hover {
+      transform: none;
+      border-left: none;
+    }
   }
 }

diff --git a/src/components/project/Project.jsx b/src/components/project/Project.jsx
@@ -31,8 +31,6 @@ const Blog = ({ visible, showModal, hideModal }) => (
       visible={visible}
       onCancel={hideModal}
     >
-      <a href="https://yakim-shu.github.io/SPA-Blog/" rel="noopener noreferrer" target="_blank">Demo</a>
-      <a href="https://github.com/yakim-shu/blog-api" rel="noopener noreferrer" target="_blank">Github Repo</a>
       <ul>
         <li>
           <h4>首頁</h4>

diff --git a/src/scss/mixin.scss b/src/scss/mixin.scss
@@ -29,7 +29,7 @@
 }
 
 /* ------- media query ------- */
-$breakpoints: ("phone": 375px, "phone-l": 480px, "tablet-s": 640px, "tablet": 768px, "desktop": 1024px, "desktop-l": 1200px);
+$breakpoints: ("phone": 375px, "phone-l": 480px, "tablet-s": 640px, "tablet": 768px, "desktop": 960px, "desktop-l": 1200px);
 
 @mixin mq($width) {
     @if map_has_key($breakpoints, $width) {

diff --git a/src/components/anchor/Anchor.scss b/src/components/anchor/Anchor.scss
@@ -20,10 +20,6 @@
   }
 }
 .ant-anchor-ink {
-  // display: none;
-  &::before {
-  }
-
   .ant-anchor-ink-ball {
     border-color: $main-color;
   }
@@ -32,5 +28,12 @@
 
 /* fixed */
 .ant-affix {
-  right: calc((50% - 700px) - 300px);
+  left: calc(50% + 380px);
+}
+
+/* ----- RWD ---- */
+@include mq('desktop') {
+  .ant-anchor-wrapper {
+    display: none;
+  }
 }

diff --git a/docs/service-worker.js b/docs/service-worker.js
@@ -14,7 +14,7 @@
 importScripts("https://storage.googleapis.com/workbox-cdn/releases/4.3.1/workbox-sw.js");
 
 importScripts(
-  "/portfolio/precache-manifest.2af9cc40243aee65cf2094b8a6d421bd.js"
+  "/portfolio/precache-manifest.df3a62bc63e43b641418965fc296503a.js"
 );
 
 self.addEventListener('message', (event) => {
